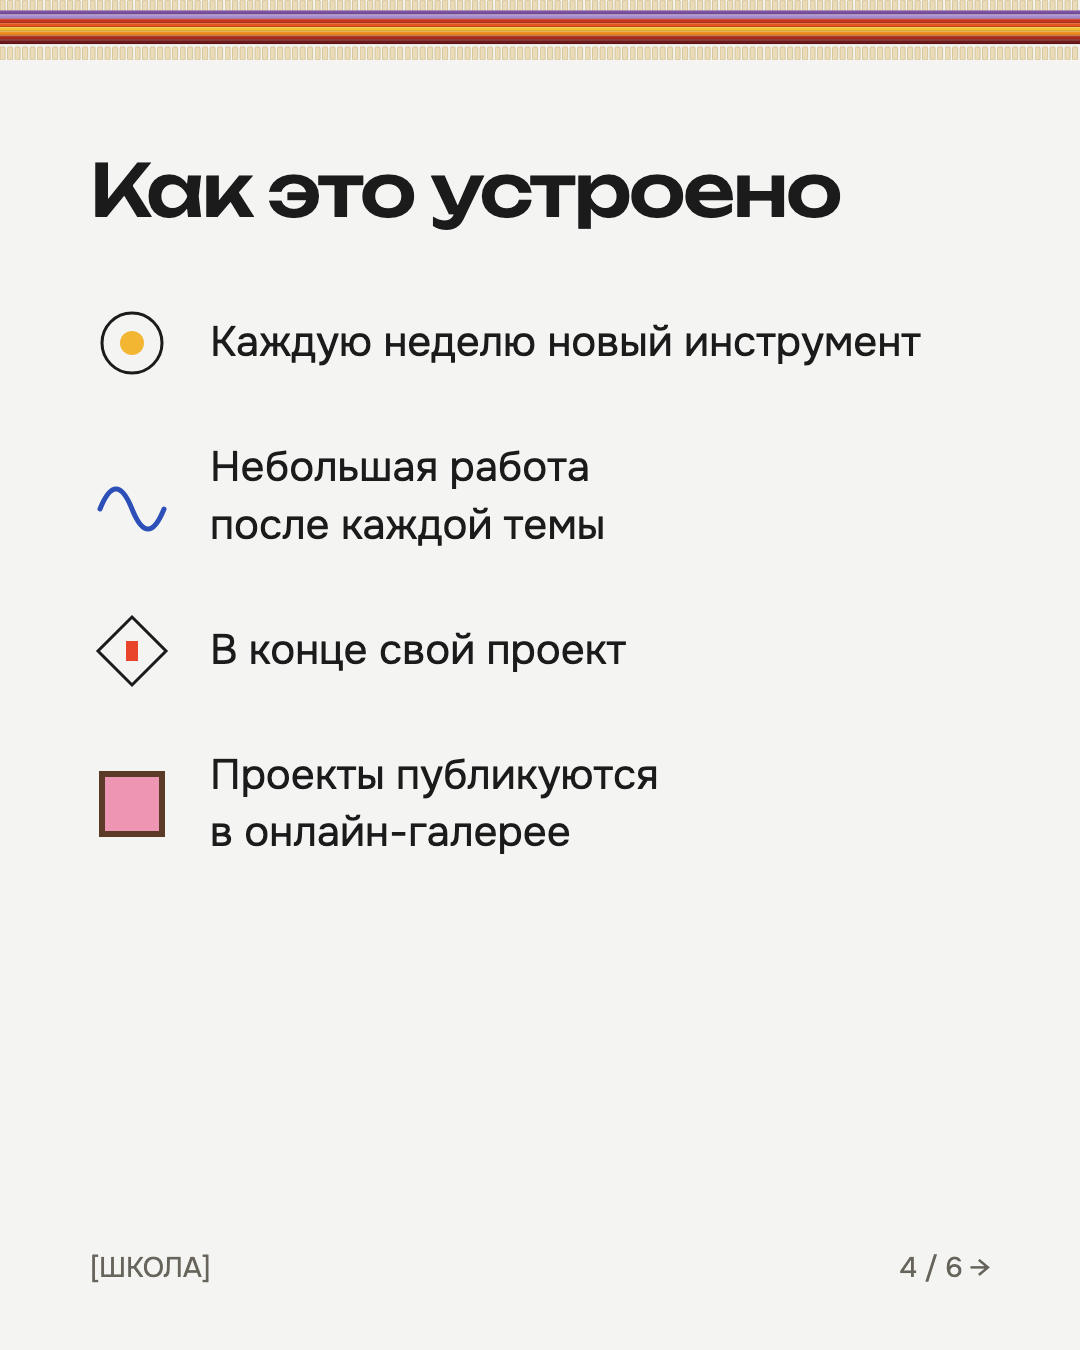
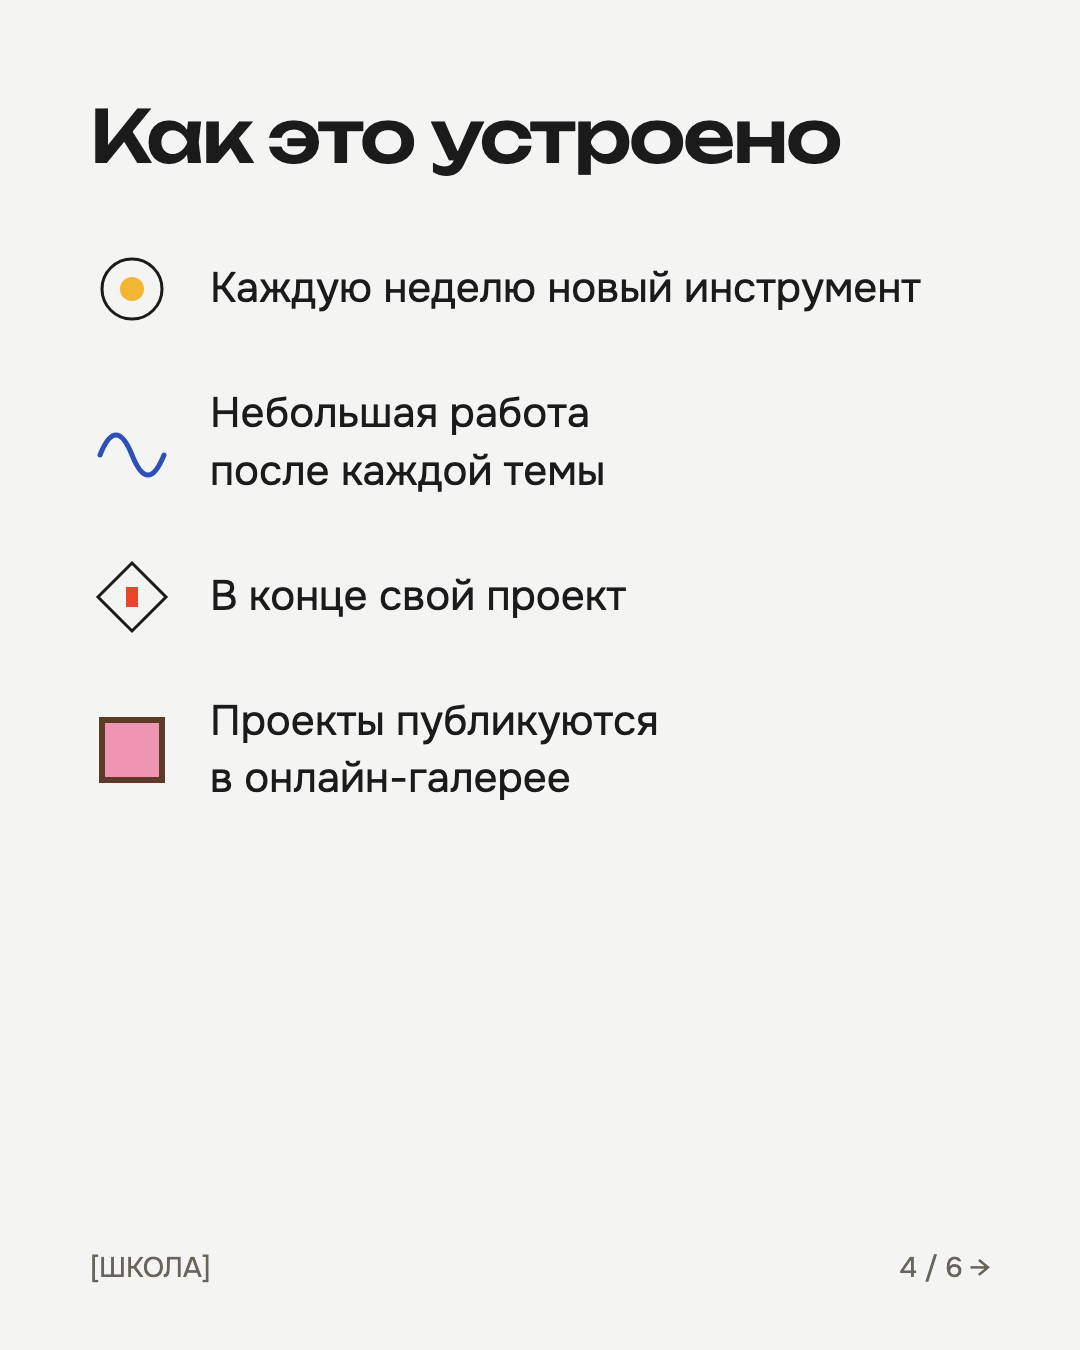
Revert woven style to Calder mobile; remove section rules; add d.school-style cursor dot

diff --git a/creative-engineering-quiet-ru.html b/creative-engineering-quiet-ru.html
@@ -24,20 +24,22 @@
   .wrap { max-width: 1040px; margin: 0 auto; padding: 0 var(--g); }
   .gray { color: var(--gray); }
 
+  .cursor-dot { position: fixed; left: 0; top: 0; width: 12px; height: 12px; margin: -6px 0 0 -6px; border-radius: 50%; background: var(--red); pointer-events: none; z-index: 3000; opacity: 0; will-change: transform; }
+  .cursor-dot.on { opacity: 1; }
+  @media (hover: none), (pointer: coarse) { .cursor-dot { display: none; } }
   nav { display: flex; justify-content: space-between; gap: 16px; padding: var(--g) 0; font-size: 15px; }
   nav .links { display: flex; gap: 22px; }
 
   .hero { display: grid; grid-template-columns: 1.4fr 1fr; gap: 48px; align-items: center; min-height: 74vh; padding: 40px 0 64px; }
   h1 { font-family: 'Unbounded', 'Onest', sans-serif; font-weight: 500; font-size: clamp(28px, 4.2vw, 56px); line-height: 1.15; letter-spacing: -.025em; margin: 0 0 28px; text-wrap: balance; }
   .hero p { margin: 0; max-width: 24em; font-size: 20px; }
-  .art img { width: 100%; height: auto; display: block; }
+  .art svg { width: 100%; height: auto; max-height: 70vh; }
   .sway { transform-box: fill-box; transform-origin: 50% 0%; animation: sway 8s ease-in-out infinite; }
   .sway.b { animation-duration: 10s; animation-delay: -4s; }
   @keyframes sway { 0%,100% { transform: rotate(-2.5deg); } 50% { transform: rotate(2.5deg); } }
   @media (prefers-reduced-motion: reduce) { .sway { animation: none; } html { scroll-behavior: auto; } }
 
-  .chiy { height: 64px; margin-top: 8px; background: url('img/weave-band.svg') repeat-x left center; background-size: auto 100%; }
-  section { border-top: 1px solid var(--ink); padding: 20px 0 0; margin-top: 88px; display: grid; grid-template-columns: 1fr 2fr; gap: var(--g); }
+  section { padding: 20px 0 0; margin-top: 88px; display: grid; grid-template-columns: 1fr 2fr; gap: var(--g); }
   h2 { font-family: 'Onest', sans-serif; font-weight: 500; font-size: 15px; margin: 4px 0 0; color: var(--gray); }
   .weeks { margin: 0; padding: 0; list-style: none; }
   .weeks li { display: grid; grid-template-columns: 22px 1fr 1fr; gap: 16px; align-items: baseline; padding: 0 0 18px; }
@@ -86,10 +88,17 @@
     <h1>Креативная инженерия</h1>
     <p>Онлайн-курс для подростков <span style="white-space:nowrap">14–19 лет</span>. Пять недель, пять тем и свой проект в конце.</p>
   </div>
-  <div class="art" aria-hidden="true"><img src="img/weave-panel.svg" alt="" width="900" height="900"></div>
+  <div class="art" aria-hidden="true">
+    <svg viewBox="0 0 300 290" xmlns="http://www.w3.org/2000/svg">
+      <line x1="30" y1="26" x2="270" y2="26" stroke="#1b1b1b" stroke-width="1.6"/>
+      <line x1="150" y1="26" x2="150" y2="6" stroke="#1b1b1b" stroke-width="1.2"/>
+      <g class="sway"><line x1="60" y1="26" x2="60" y2="130" stroke="#1b1b1b"/><circle cx="60" cy="146" r="16" fill="#e8452a"/></g>
+      <g class="sway b"><line x1="130" y1="26" x2="130" y2="210" stroke="#1b1b1b"/><circle cx="130" cy="236" r="26" fill="#fff" stroke="#1b1b1b" stroke-width="1.4"/></g>
+      <g class="sway"><line x1="200" y1="26" x2="200" y2="96" stroke="#1b1b1b"/><path d="M200 96 l-16 28 h32 z" fill="#2c4fb8"/></g>
+      <g class="sway b"><line x1="246" y1="26" x2="246" y2="170" stroke="#1b1b1b"/><circle cx="246" cy="184" r="14" fill="#f2b632"/></g>
+    </svg>
+  </div>
 </header>
-
-<div class="chiy" role="presentation"></div>
 
 <section id="program">
   <h2>Программа</h2>
@@ -146,9 +155,20 @@
 <footer>
   <div>[ШКОЛА] · Creative Engineering School</div>
   <div>Бюро Art + STEM</div>
-  <div style="flex-basis:100%">Орнамент по мотивам шым ши, традиционных тростниковых циновок.</div>
 </footer>
 
 </div>
+<div class="cursor-dot" aria-hidden="true"></div>
+<script>
+  (function () {
+    var dot = document.querySelector('.cursor-dot');
+    if (!dot || !window.matchMedia('(hover: hover) and (pointer: fine)').matches) return;
+    window.addEventListener('mousemove', function (e) {
+      dot.style.transform = 'translate3d(' + e.clientX + 'px,' + e.clientY + 'px,0)';
+      dot.classList.add('on');
+    }, { passive: true });
+    document.documentElement.addEventListener('mouseleave', function () { dot.classList.remove('on'); });
+  })();
+</script>
 </body>
 </html>

diff --git a/carousel/index.html b/carousel/index.html
@@ -10,9 +10,8 @@
   :root { --paper: #f4f5f3; --ink: #1b1b1b; --gray: #67645c; --red: #e8452a; --yellow: #f2b632; --pink: #ee95b4; --blue: #2c4fb8; }
   * { box-sizing: border-box; }
   body { margin: 0; background: #ccc; font-family: 'Onest', Arial, sans-serif; color: var(--ink); }
-  .slide { position: relative; width: 1080px; height: 1350px; background: var(--paper); padding: 150px 90px 96px; overflow: hidden; display: flex; flex-direction: column; margin: 0 auto 24px; }
+  .slide { position: relative; width: 1080px; height: 1350px; background: var(--paper); padding: 96px 90px; overflow: hidden; display: flex; flex-direction: column; margin: 0 auto 24px; }
   .solo .slide { margin: 0; }
-  .slide::before { content: ''; position: absolute; left: 0; right: 0; top: 0; height: 60px; background: url('../img/weave-band.svg') repeat-x left center; background-size: auto 100%; }
   h1, h2 { font-family: 'Unbounded', 'Onest', sans-serif; font-weight: 500; margin: 0; letter-spacing: -.03em; line-height: 1.12; text-wrap: balance; }
   h1 { font-size: 104px; }
   h2 { font-size: 72px; }
@@ -24,7 +23,7 @@
   /* 1 cover */
   .cover h1 { margin-top: 24px; }
   .cover .lead { margin-top: 36px; max-width: 760px; }
-  .cover .art { position: absolute; right: 90px; bottom: 140px; width: 560px; height: auto; }
+  .cover svg { position: absolute; right: 70px; bottom: 150px; width: 520px; height: auto; }
 
   /* 3 weeks */
   .weeks { list-style: none; padding: 0; margin: 64px 0 0; }
@@ -61,7 +60,14 @@
 <section class="slide cover" data-n="1">
   <h1>Креативная инженерия</h1>
   <p class="lead">Онлайн-курс для подростков <span style="white-space:nowrap">14–19 лет</span>. Пять недель, пять тем и свой проект в&nbsp;конце.</p>
-  <img class="art" src="../img/weave-panel.svg" alt="" aria-hidden="true">
+  <svg viewBox="0 0 300 300" aria-hidden="true">
+    <line x1="30" y1="26" x2="270" y2="26" stroke="#1b1b1b" stroke-width="1.6"/>
+    <line x1="150" y1="26" x2="150" y2="6" stroke="#1b1b1b" stroke-width="1.2"/>
+    <line x1="60" y1="26" x2="60" y2="130" stroke="#1b1b1b"/><circle cx="60" cy="146" r="16" fill="#e8452a"/>
+    <line x1="130" y1="26" x2="130" y2="210" stroke="#1b1b1b"/><circle cx="130" cy="236" r="26" fill="#fff" stroke="#1b1b1b" stroke-width="1.4"/>
+    <line x1="200" y1="26" x2="200" y2="96" stroke="#1b1b1b"/><path d="M200 96 l-16 28 h32 z" fill="#2c4fb8"/>
+    <line x1="246" y1="26" x2="246" y2="170" stroke="#1b1b1b"/><circle cx="246" cy="184" r="14" fill="#f2b632"/>
+  </svg>
   <div class="foot"><span>[ШКОЛА]</span><span>1 / 6 →</span></div>
 </section>
 
